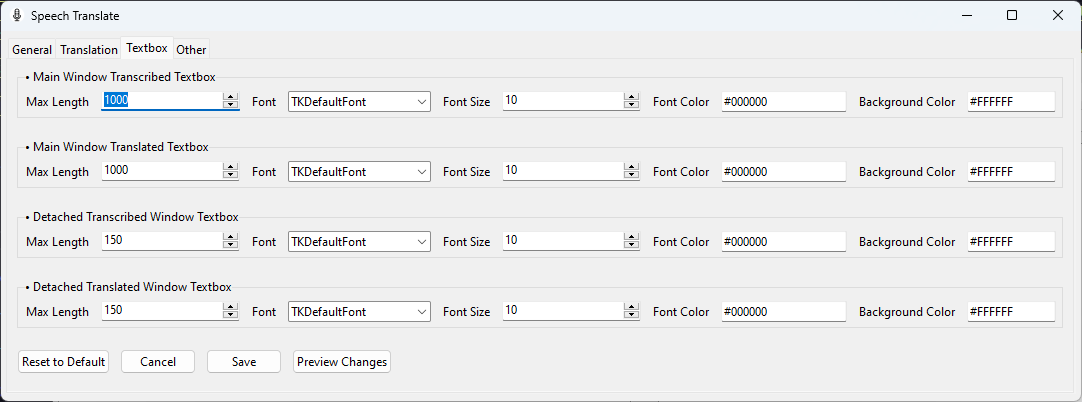
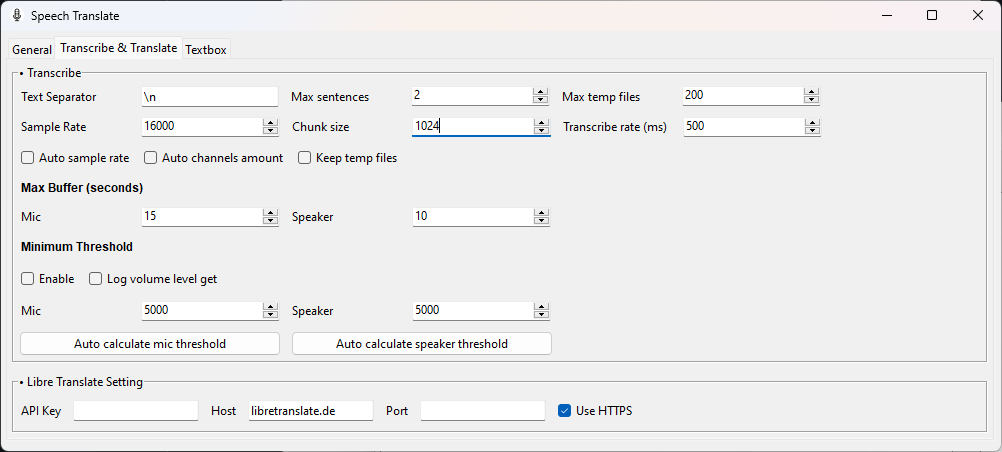
update preview

diff --git a/readme.md b/readme.md
@@ -20,20 +20,27 @@ A speech transcription and translation application using whisper AI model.
 
 - Speech to text
 - Translation of transcribed text (Speech to translated text)
-- Input from speaker, mic, and file
+- Realtime input from mic and speaker
+- Batch file processing with timestamp
 - <details open>
     <summary>Preview</summary>
     <p align="center">
       <img src="https://raw.githubusercontent.com/Dadangdut33/Speech-Translate/master/assets/1.png" width="700" alt="Speech Translate Looks">
-      <img src="https://raw.githubusercontent.com/Dadangdut33/Speech-Translate/master/assets/2.png" width="700" alt="Speech Translate Looks">
-      <img src="https://raw.githubusercontent.com/Dadangdut33/Speech-Translate/master/assets/3.png" width="700" alt="Speech Translate Looks">
+      <img src="https://raw.githubusercontent.com/Dadangdut33/Speech-Translate/master/assets/2.png" width="700" alt="Setting transcription">
+      <img src="https://raw.githubusercontent.com/Dadangdut33/Speech-Translate/master/assets/3.png" width="700" alt="Setting textbox">
+      <img src="https://raw.githubusercontent.com/Dadangdut33/Speech-Translate/master/assets/4.png" width="700" alt="About window">
+      <img src="https://raw.githubusercontent.com/Dadangdut33/Speech-Translate/master/assets/5.png" alt="Detached window preview">
+      Detached window preview
+      <img src="https://raw.githubusercontent.com/Dadangdut33/Speech-Translate/master/assets/6.png" alt="Transcribe mode on detached window (English to Indonesia)">
+      Transcribe mode on detached window (English to Indonesia)
+      <img src="https://raw.githubusercontent.com/Dadangdut33/Speech-Translate/master/assets/7.png" alt="Translate mode on detached window (English to Indonesia)">
+      Translate mode on detached window (English to Indonesia)
     </p>
   </details>
 
 # User Requirements
 
 - Whisper uses vram/gpu to process the audio, so it is recommended to have a CUDA compatible GPU. If there is no compatible GPU, the application will use the CPU to process the audio (This might make it slower). For each model requirement you can check directly at the [whisper repository](https://github.com/openai/whisper) or you can hover over the model selection in the app (there will be a tooltip about the model info).
-
 - Speaker input only work on windows 8 and above.
 
 # Download & Installation
@@ -44,11 +51,12 @@ A speech transcription and translation application using whisper AI model.
 
 # General Usage
 
-1. Select model
-2. Select mode and language
-3. Click the record button
-4. Stop record
-5. (Optionally) export the result to a file
+1. Set user setting
+2. Select model
+3. Select mode and language
+4. Click the record button
+5. Stop record
+6. (Optionally) export the result to a file
 
 # User Settings
 
@@ -135,4 +143,4 @@ This project is licensed under the MIT License - see the [LICENSE](LICENSE) file
 
 # Other
 
-Check out my other similar project called [Screen Translate](https://github.com/Dadangdut33/Screen-Translate/). This one is a screen translator / OCR tools made possible using tesseract.
+Check out my other similar project called [Screen Translate](https://github.com/Dadangdut33/Screen-Translate/) a screen translator / OCR tools made possible using tesseract.